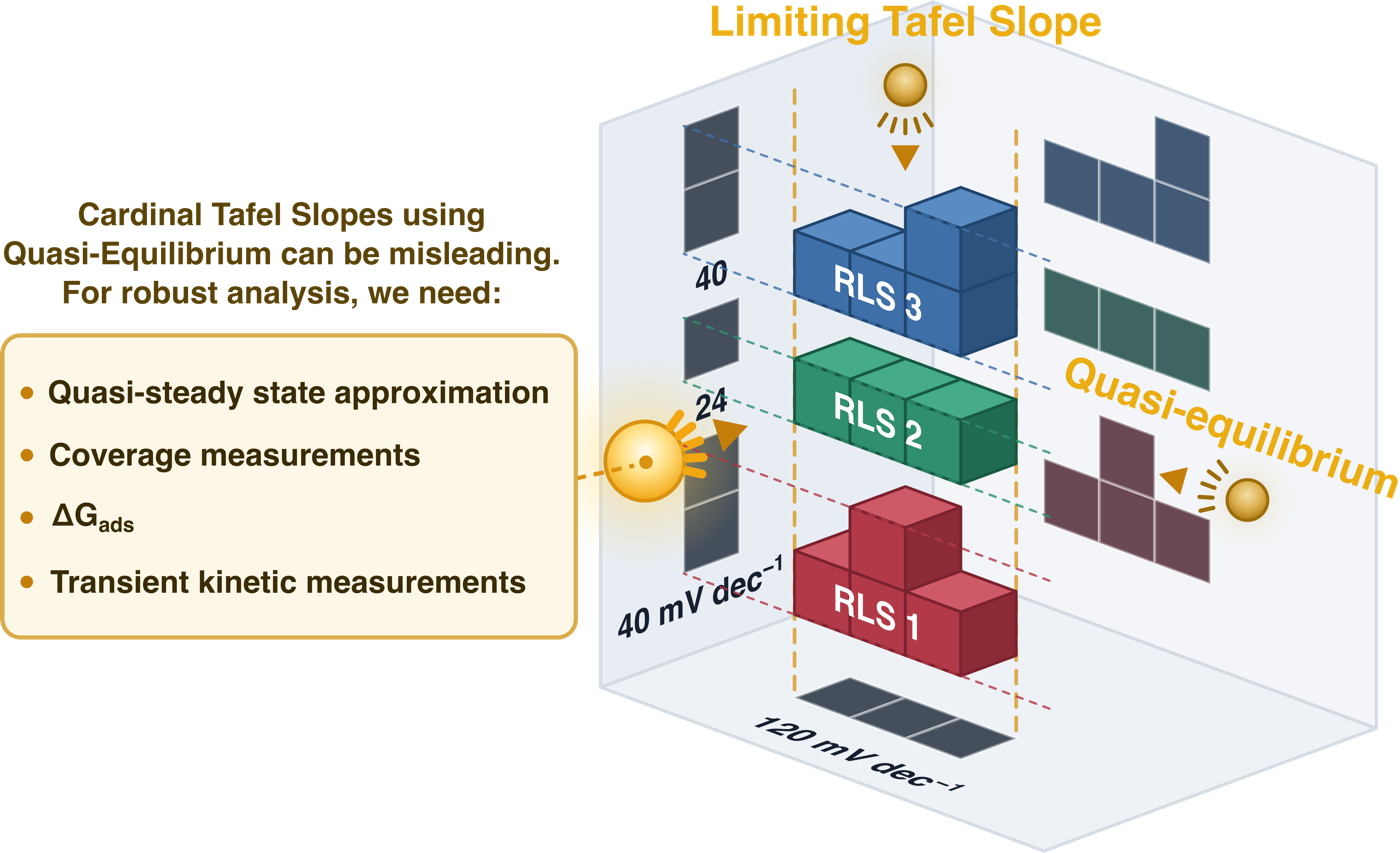
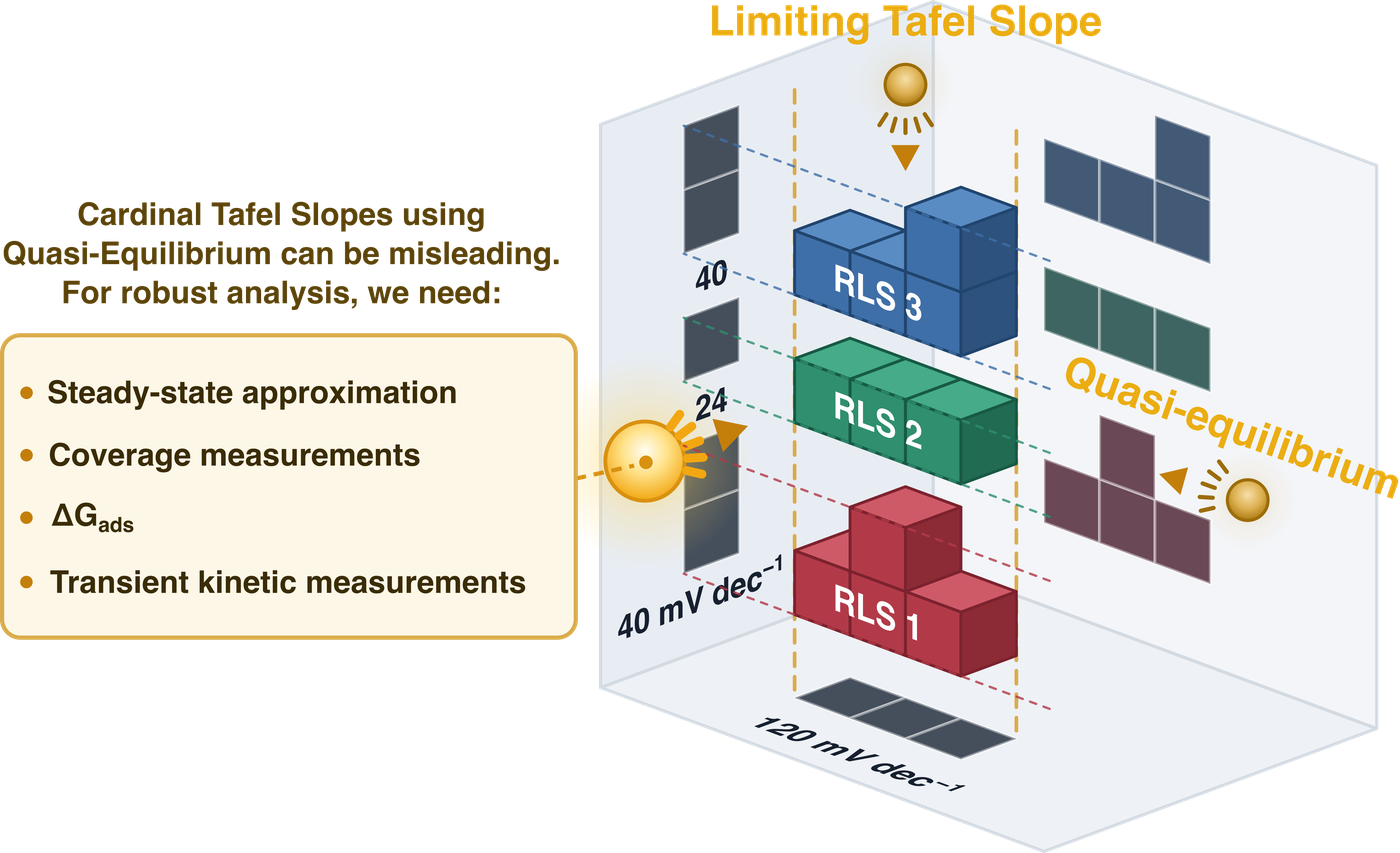
Use revised TOC graphic and Zenodo concept DOI (#2)
The TOC now says steady-state approximation (SSA). The README badge,
citation link and CITATION.cff point to the concept DOI
10.5281/zenodo.22183014, which always resolves to the latest release.

diff --git a/README.md b/README.md
@@ -1,6 +1,6 @@
 # Microkinetic simulation of multistep electrochemical reactions
 
-[![DOI](https://zenodo.org/badge/DOI/10.5281/zenodo.22183015.svg)](https://doi.org/10.5281/zenodo.22183015)
+[![DOI](https://zenodo.org/badge/DOI/10.5281/zenodo.22183014.svg)](https://doi.org/10.5281/zenodo.22183014)
 
 <img src="docs/toc.png" width="640" alt="Cardinal Tafel slopes from quasi-equilibrium can be misleading; robust analysis requires the steady-state approximation, coverage measurements, adsorption energies, and transient kinetic measurements.">
 
@@ -95,4 +95,4 @@ The default mechanism is acid HER (Volmer–Heyrovsky–Tafel).
 ## Citing
 
 See `CITATION.cff`, or cite the Zenodo archive:
-[10.5281/zenodo.22183015](https://doi.org/10.5281/zenodo.22183015).
+[10.5281/zenodo.22183014](https://doi.org/10.5281/zenodo.22183014).
